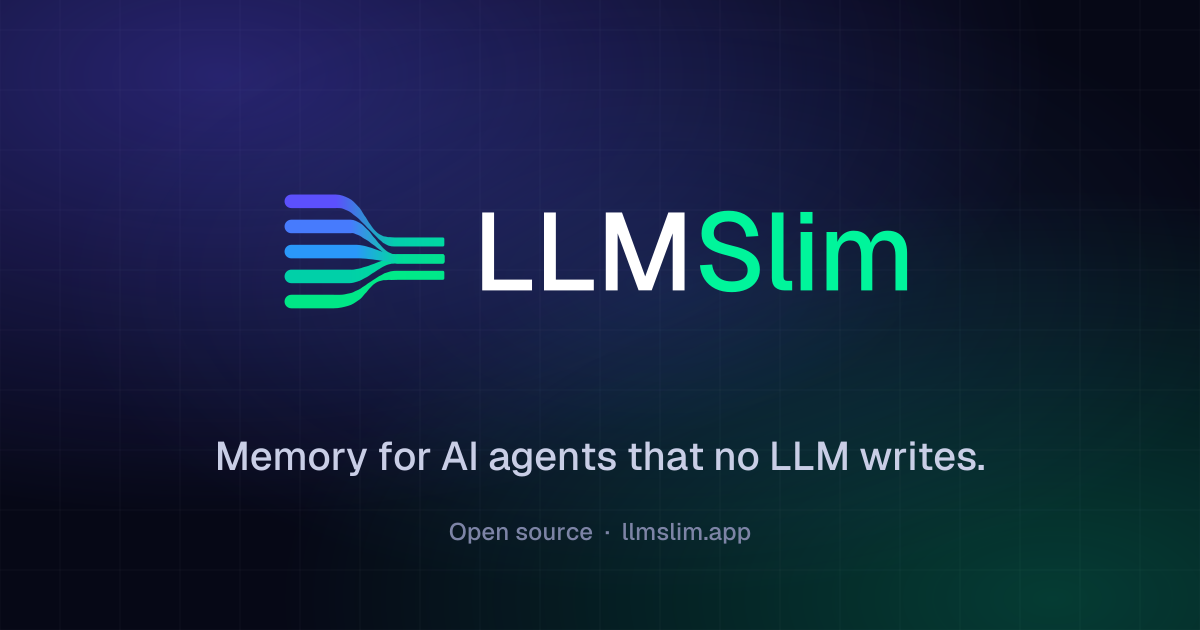
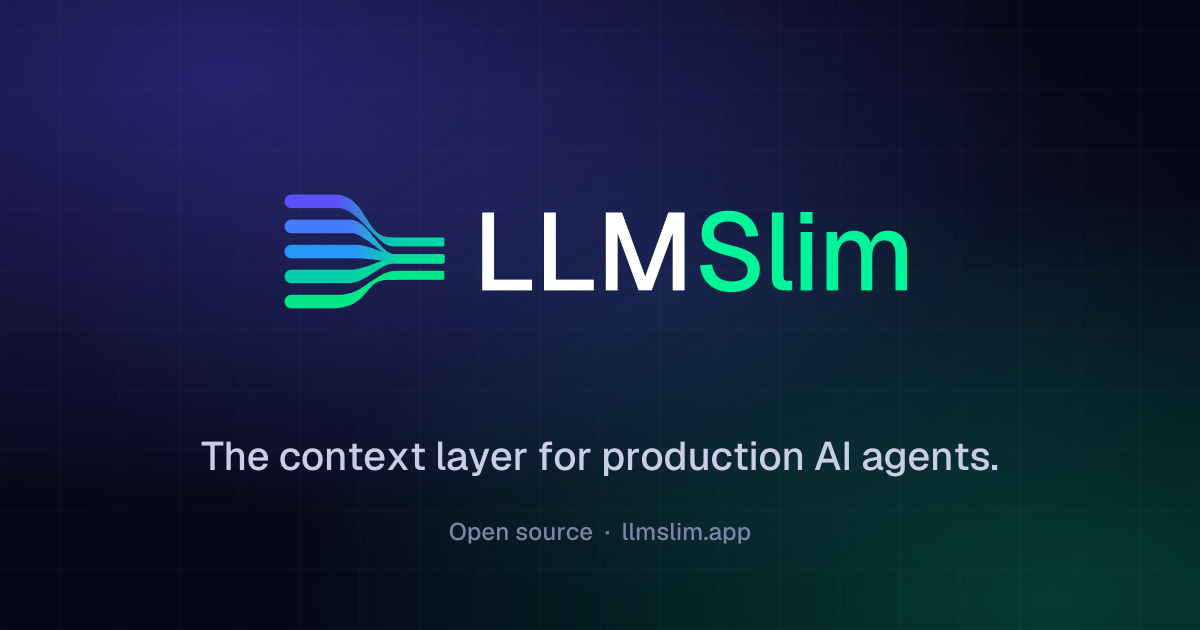
feat(web): share image carries the site headline, the context layer for production AI agents

Changed region(s): [[0.1542, 0.6937, 0.8325, 0.754]]

diff --git a/web/scripts/brand/build_assets.py b/web/scripts/brand/build_assets.py
@@ -155,8 +155,8 @@ def og_image():
     scale = target_w / vb[2]
     lx = (W - target_w) / 2 - vb[0] * scale
     ly = 190 - vb[1] * scale
-    _, tw = text("Memory for AI agents that no LLM writes.", 40, 0, 0, tracking=-0.01)
-    tag, _ = text("Memory for AI agents that no LLM writes.", 40, (W - tw) / 2, 470, tracking=-0.01)
+    _, tw = text("The context layer for production AI agents.", 40, 0, 0, tracking=-0.01)
+    tag, _ = text("The context layer for production AI agents.", 40, (W - tw) / 2, 470, tracking=-0.01)
     _, fw = text("Open source  ·  llmslim.app", 24, 0, 0, tracking=0)
     foot, _ = text("Open source  ·  llmslim.app", 24, (W - fw) / 2, 540, tracking=0)
     grid = "".join(f'<path d="M{x} 0V{H}" stroke="#FFFFFF" stroke-opacity="0.035"/>' for x in range(0, W + 1, 60))
